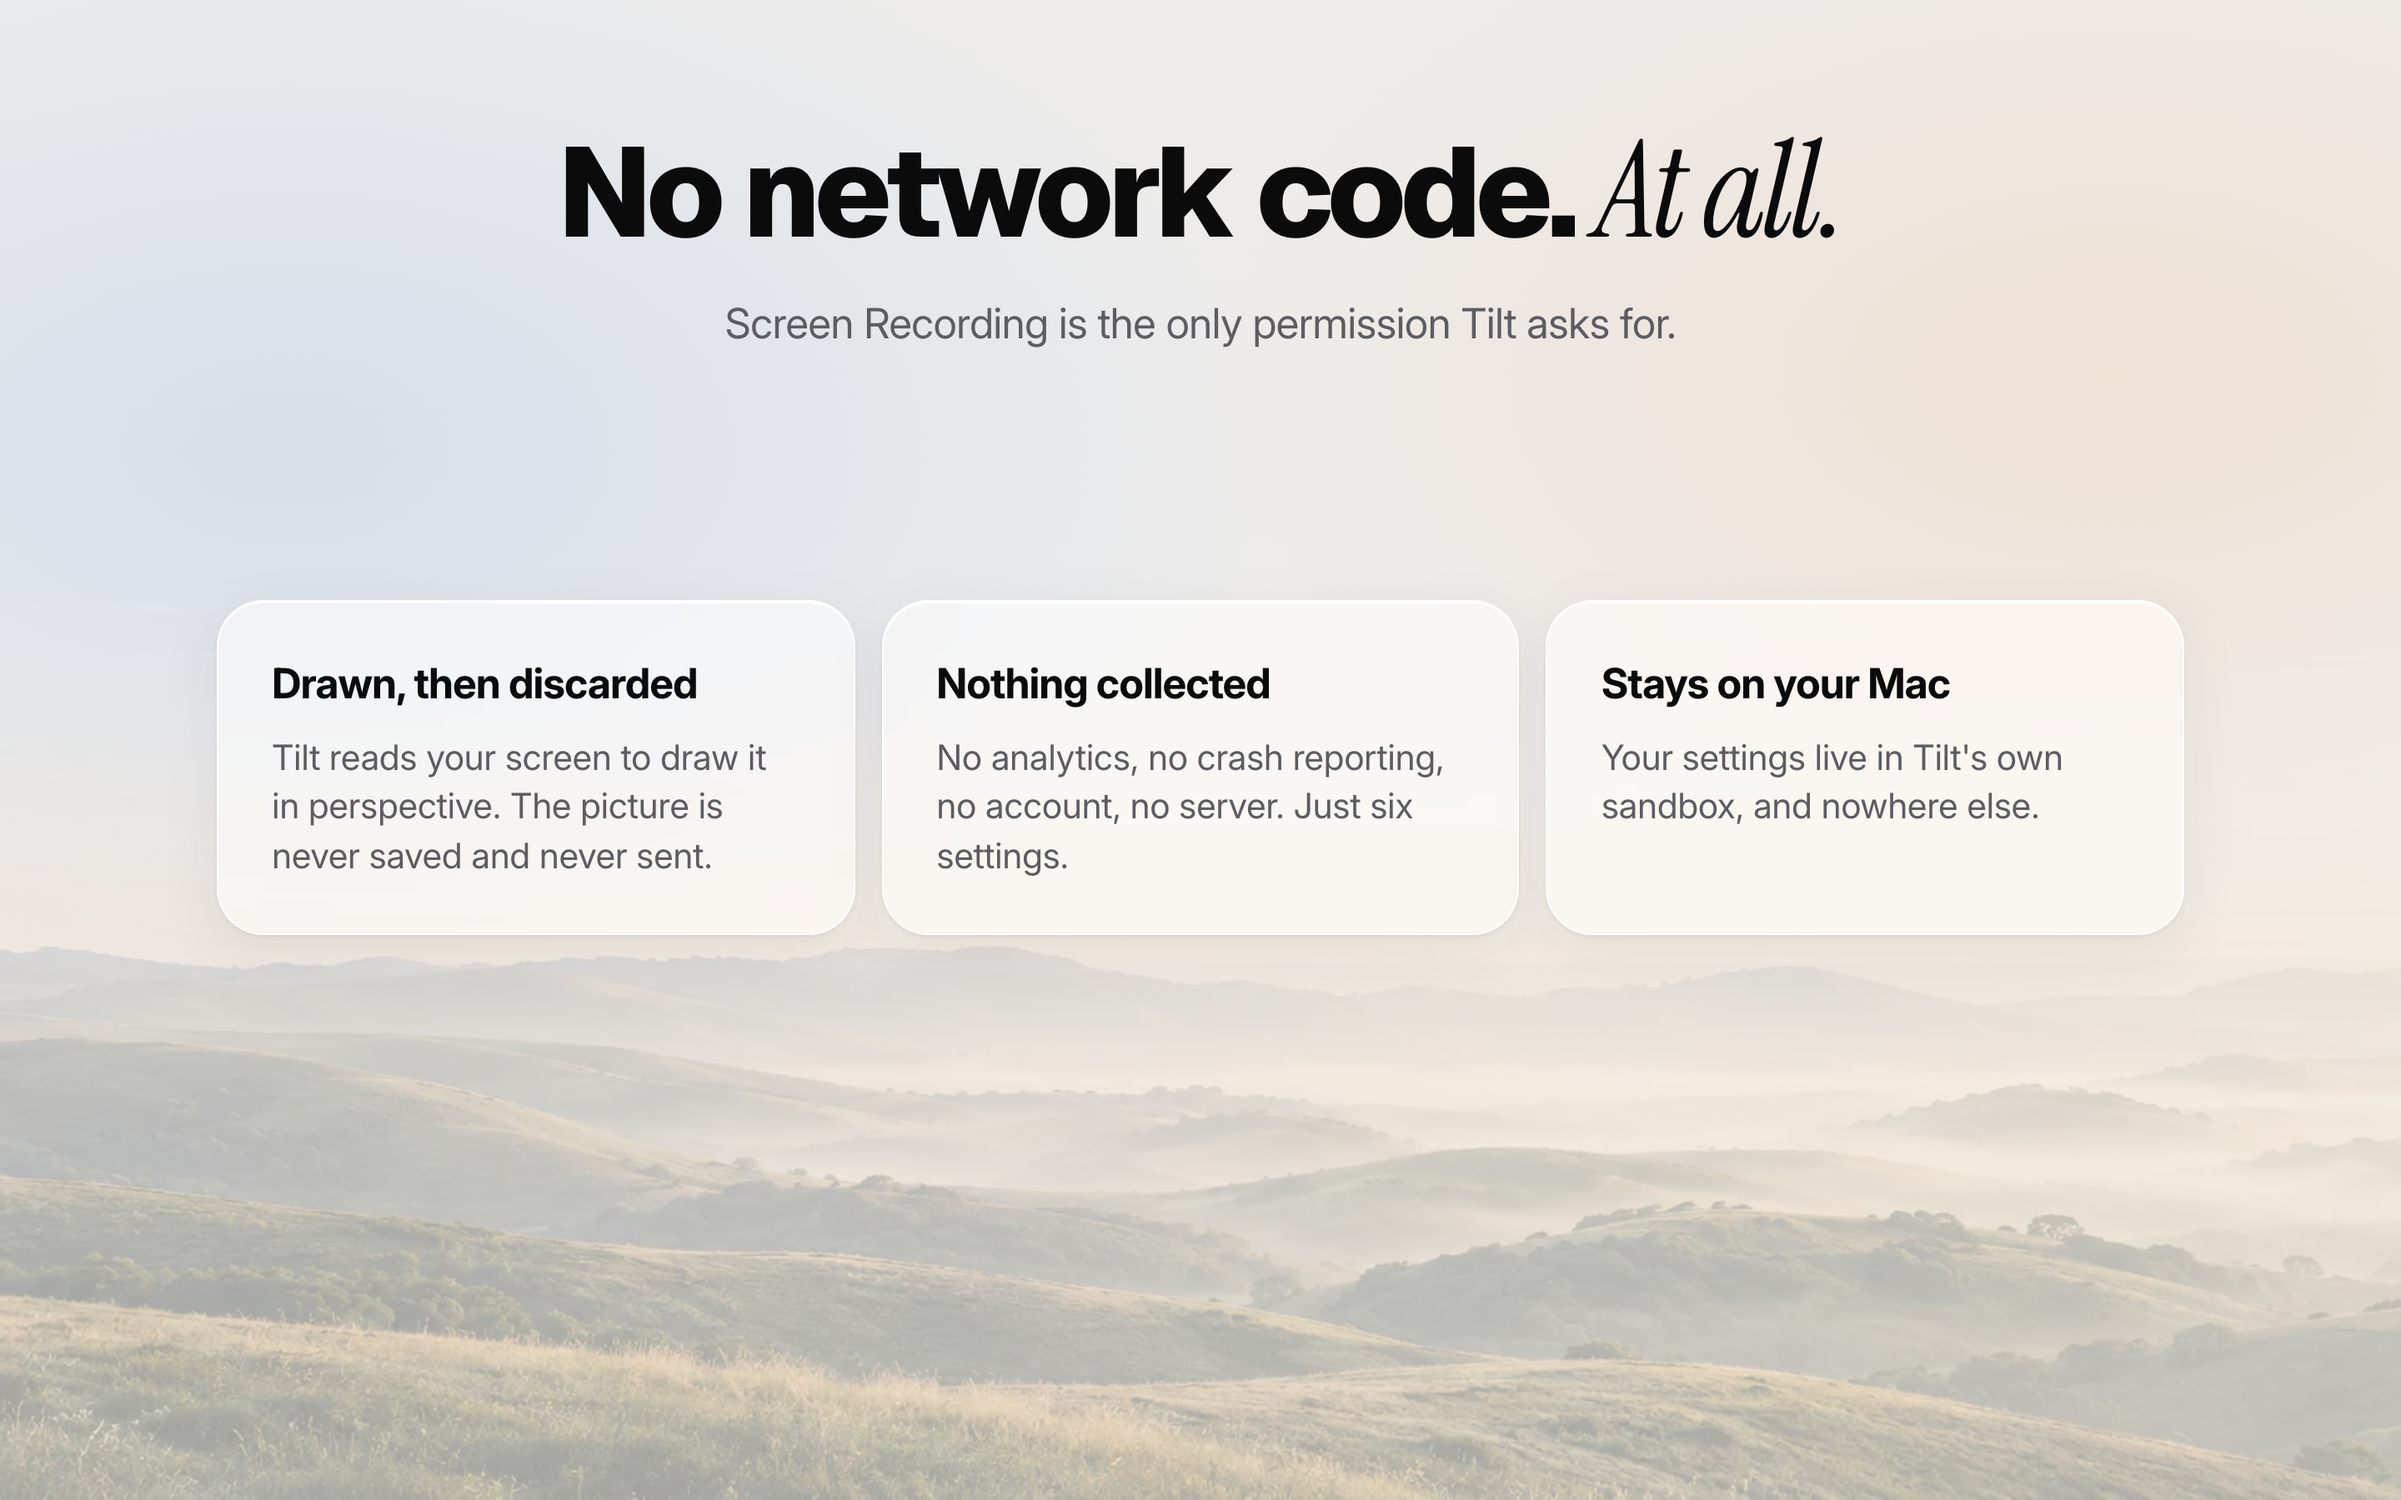
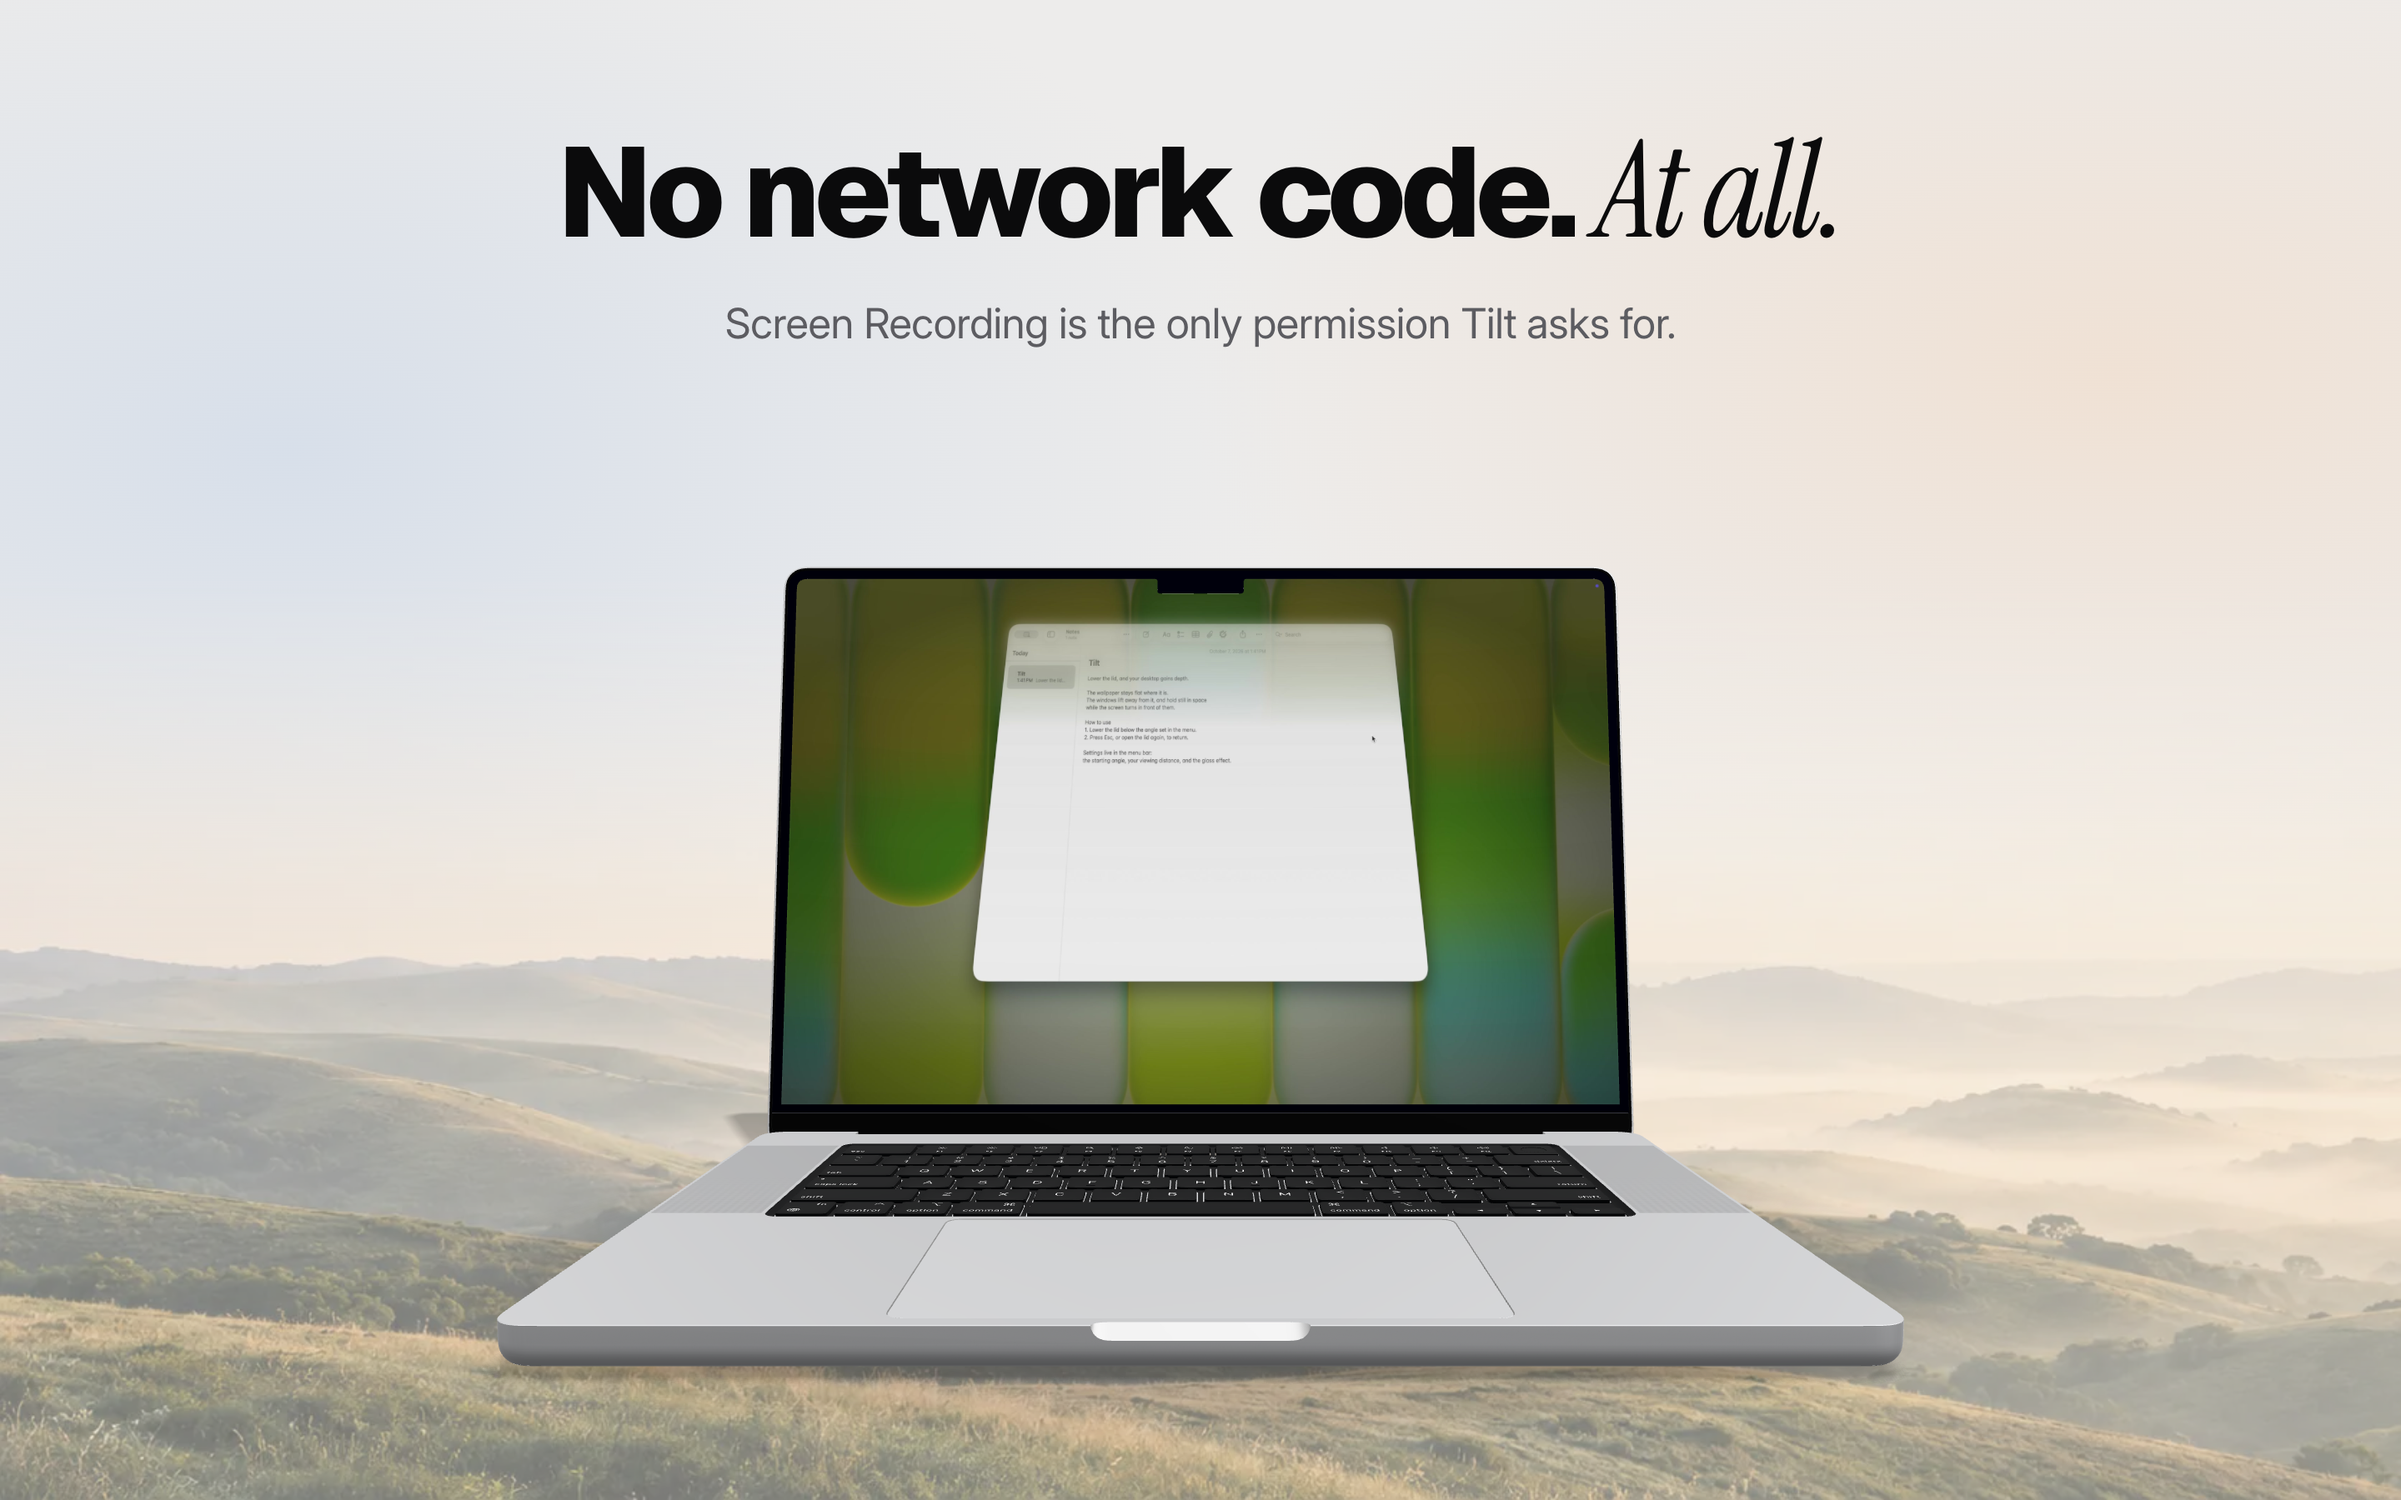
docs(appstore): show the real app on the fifth screenshot
App Review cited 2.3.3: screenshots must show the actual app in use.
The privacy shot had only text cards. It now puts a frame of the review
recording (lid at 88 degrees, effect engaged) on the 3D MacBook, under
the same headline.

diff --git a/docs/appstore/source/index.html b/docs/appstore/source/index.html
@@ -24,10 +24,6 @@
   canvas#demo { position: absolute; left: 0; top: 215px; width: 1440px; height: 685px; z-index: 1; }
   .stage-menu { position: absolute; left: 50%; top: 270px; transform: translateX(-50%) scale(1.5); transform-origin: top center; width: 560px; }
   .stage-menu .desk { margin-left: 0; height: 430px; border-radius: 18px; } .stage-menu .desk .menu { right: 24px; }
-  .stage-privacy { position: absolute; left: 50%; top: 360px; transform: translateX(-50%); width: 1180px; }
-  .stage-privacy .grid3 p { font-size: 21px; padding: 34px; border-radius: 28px; margin: 0; }
-  .stage-privacy .grid3 p b { display: block; color: var(--fg); font-size: 25px; letter-spacing: -.02em; margin-bottom: 12px; }
-  .stage-privacy .grid3 a { color: inherit; }
   /* ?social: the GitHub social preview, 2:1, with room above the headline. */
   html.social, html.social body { height: 720px; }
   html.social .head { top: 96px; }
@@ -70,11 +66,7 @@
 
 <section class="shot" data-s="5"><div class="head"><h1>No network code. <span class="serif">At all.</span></h1>
 <p>Screen Recording is the only permission Tilt asks for.</p></div>
-<div class="stage-privacy privacy"><div class="grid3">
-  <p><b>Drawn, then discarded</b>Tilt reads your screen to draw it in perspective. The picture is never saved and never sent.</p>
-  <p><b>Nothing collected</b>No analytics, no crash reporting, no account, no server. Just six settings.</p>
-  <p><b>Stays on your Mac</b>Your settings live in Tilt's own sandbox, and nowhere else.</p>
-</div></div></section>
+</section>
 
 <script type="module" src="./shots.js"></script>
 </body></html>

diff --git a/docs/appstore/source/shots.js b/docs/appstore/source/shots.js
@@ -4,7 +4,17 @@ const q = new URLSearchParams(location.search);
 const s = Number(q.get('s') || 1);
 if (q.has('social')) document.documentElement.classList.add('social');
 document.querySelector(`.shot[data-s="${s}"]`).classList.add('on');
-const scenes = { 1: { angle: 78, view: 1, orbit: 0 }, 2: { angle: 58, view: 1, orbit: 0 }, 3: { angle: 45, view: 1, orbit: 1 } };
+const scenes = { 1: { angle: 78, view: 1, orbit: 0 }, 2: { angle: 58, view: 1, orbit: 0 }, 3: { angle: 45, view: 1, orbit: 1 }, 5: { angle: 100, view: 1, orbit: 0 } };
+// Scene 5 shows a frame of the real app, from the App Review recording (1-launch-permission-effect.mov
+// at 0:37, lid at 88 degrees), on the screen of an open lid: the store wants the actual app in use.
+// So the demo's two drawn layers become that frame and nothing, before the demo loads them.
+if (s === 5) {
+  const swap = { '/screen-wall.webp': './real-screen.jpg',
[1 lines of base64/hex data omitted]
+  const d = Object.getOwnPropertyDescriptor(HTMLImageElement.prototype, 'src');
+  Object.defineProperty(HTMLImageElement.prototype, 'src', { ...d,
+    set(v) { d.set.call(this, swap[new URL(v, location.href).pathname] ?? v); } });
+}
 const canvas = document.querySelector('#demo');
 if (!scenes[s]) { canvas.remove(); document.querySelector('#hills').style.opacity = s === 4 ? .5 : .35; window.__ready = true; }
 else {

diff --git a/README.md b/README.md
@@ -168,7 +168,7 @@ along with the rest of what this code does not reveal about itself.
 
 ## Privacy
 
-<img src="docs/appstore/5-privacy.png" alt="No network code. At all. Screen Recording is the only permission Tilt asks for; nothing is saved or sent, and it keeps only its own settings">
+<img src="docs/appstore/5-privacy.png" alt="No network code. At all. Screen Recording is the only permission Tilt asks for. A MacBook shows a frame captured from Tilt running, the Notes window tilted away from the wallpaper">
 
 No network code, nothing written to disk, and nothing but settings stored.
 [PRIVACY.md](PRIVACY.md) says what is read, what is kept, and how to remove it.
